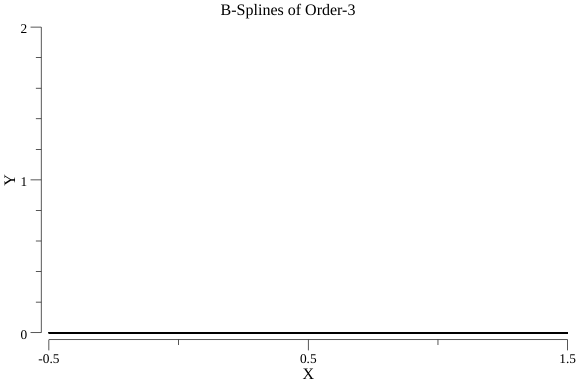
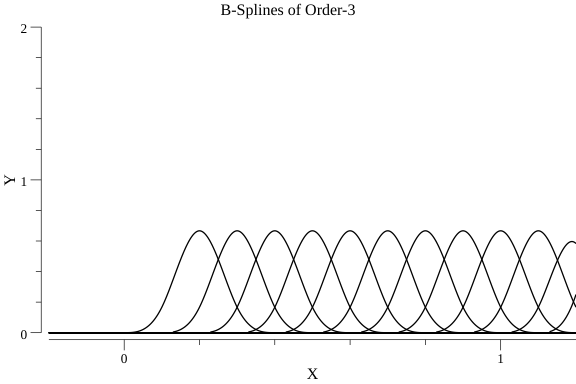
[Spline] Implement Unique B-Spline #2 : Add indexing, separate from knot data's slice indexing.

diff --git a/knot/knot.go b/knot/knot.go
@@ -14,12 +14,24 @@ import "fmt"
 // i.e. if we need y = spline(1.0), then the knots should be
 // Knot = {0, 0.1, 0.2, ... , 0.9, 1.0, 1.1}
 // since B-Splines are defined on [k_i, k_(i+1))
+// If padding is included, then we interpret knots as:
+// k_-p, k_(-p+1), ... , k_-1, k_0, k_1, ... , k_count, k_(count+1), ... , k_(count+p)
+// --------------------------  ^^^^^^^^^^^^^^^^^^^^^^^  ------------------------------
+//          PADDINGS                    KNOTS                     PADDINGS
 type Knot interface {
 	// Len
 	// Total length of the knots, including paddings
 	Len() int
+	// Padding
+	// How many paddings are on each end?
+	Padding() int
+	// Count
+	// Length of the knots without paddings
+	Count() int
 
+	// Will return value considering padding, i.e. if padding = 4, then At(0) = Knot[4]
 	At(idx int) float64
+	// Will return value considering padding, i.e. if padding = 4, then Index(0) = 0
 	Index(x float64) int
 	String() string
 
@@ -27,7 +39,10 @@ type Knot interface {
 	IsUnique() bool
 }
 
-type uniformKnot []float64
+type uniformKnot struct {
+	knots   []float64
+	padding int
+}
 
 func NewUniformKnot(start, end float64, count, paddings int) Knot {
 	if count <= 0 {
@@ -40,29 +55,36 @@ func NewUniformKnot(start, end float64, count, paddings int) Knot {
 	var startIdx = -paddings
 	var endIdx = count + paddings
 	for i := startIdx; i <= endIdx; i++ {
-		knots = append(knots, start+(end-start)*(float64(i)/float64(count)))
+		knots.knots = append(knots.knots, start+(end-start)*(float64(i)/float64(count)))
 	}
-	return knots
+	return &knots
 }
 
-// count + 1
-func (k uniformKnot) Len() int {
-	return len(k)
+func (k *uniformKnot) Len() int {
+	return len(k.knots)
 }
 
-func (k uniformKnot) IsSorted() bool {
-	return sort.Float64sAreSorted(k)
+func (k *uniformKnot) Padding() int {
+	return k.padding
 }
 
-func (k uniformKnot) IsUnique() bool {
+func (k *uniformKnot) Count() int {
+	return len(k.knots) - 2*k.padding
+}
+
+func (k *uniformKnot) IsSorted() bool {
+	return sort.Float64sAreSorted(k.knots)
+}
+
+func (k *uniformKnot) IsUnique() bool {
 	if !k.IsSorted() {
 		return false
 	}
 	if k.Len() == 0 {
 		return false
 	}
-	last := k[0]
-	for _, f := range k[1:] {
+	last := k.knots[0]
+	for _, f := range k.knots[1:] {
 		if last == f {
 			return false
 		}
@@ -71,46 +93,46 @@ func (k uniformKnot) IsUnique() bool {
 	return true
 }
 
-func (k uniformKnot) At(idx int) float64 {
-	if idx < 0 {
-		return k[0]
+func (k *uniformKnot) At(idx int) float64 {
+	if idx+k.Padding() < 0 {
+		return k.knots[0]
 	}
-	if idx >= k.Len() {
-		return k[k.Len()-1]
+	if idx >= k.Count()+k.Padding() {
+		return k.knots[k.Len()-1]
 	}
-	return k[idx]
+	return k.knots[idx+k.Padding()]
 }
 
-func (k uniformKnot) Index(x float64) int {
-	start, end := k[0], k[len(k)-1]
-	interval := float64(len(k)-1) / (end - start)
+func (k *uniformKnot) Index(x float64) int {
+	start, end := k.knots[0], k.knots[len(k.knots)-1]
+	interval := float64(len(k.knots)-1) / (end - start)
 	idx := int(x*interval + start)
 	if k.At(idx) <= x && x < k.At(idx+1) {
-		return idx
+		return idx - k.Padding()
 	}
-	if idx >= k.Len()-1 {
-		return k.Len() - 1
+	if idx >= k.Len()-1-k.Padding() {
+		return k.Len() - 1 - k.Padding()
 	}
 	if idx < 0 {
-		return 0
+		return k.Padding()
 	}
 	if x >= k.At(idx+1) {
 		for interval < x-k.At(idx) && idx > 0 {
 			idx--
 		}
-		return idx
+		return idx - k.Padding()
 	}
 
 	for interval < k.At(idx)-x {
 		idx++
 	}
-	return idx
+	return idx - k.Padding()
 }
 
-func (k uniformKnot) String() string {
+func (k *uniformKnot) String() string {
 	buf := strings.Builder{}
 	buf.WriteString("[")
-	for i, f := range k {
+	for i, f := range k.knots {
 		buf.WriteString(fmt.Sprintf("%f", f))
 		if i < k.Len()-1 {
 			buf.WriteString(fmt.Sprintf(", "))

diff --git a/bspline/uniformBspline.go b/bspline/uniformBspline.go
@@ -25,7 +25,7 @@ func NewBSplineSimple(order int, knot knot.Knot, coef []float64) *bSplineSimple 
 }
 
 func (b *bSplineSimple) At(x float64) float64 {
-	idx := b.knots.Index(x)
+	idx := b.knots.Index(x) + b.Order()
 	v := b.GetCoef(idx) * b.GetBSpline(idx)(x)
 	for m := 1; m <= b.order; m++ {
 		v += b.GetCoef(idx-m) * b.GetBSpline(idx-m)(x)
@@ -34,7 +34,12 @@ func (b *bSplineSimple) At(x float64) float64 {
 }
 
 func (b *bSplineSimple) AtIdx(idx int) float64 {
-	return b.bsplines[idx](b.Knots().At(idx))
+	x := b.Knots().At(idx)
+	v := b.GetCoef(idx) * b.GetBSpline(idx)(x)
+	for m := 1; m <= b.order; m++ {
+		v += b.GetCoef(idx-m) * b.GetBSpline(idx-m)(x)
+	}
+	return v
 }
 
 func (b *bSplineSimple) Knots() knot.Knot {
@@ -60,7 +65,19 @@ func (b *bSplineSimple) GetCoef(idx int) float64 {
 	return 0.0
 }
 
+// GetBSpline find cached B-Spline function from index of the knot
+func (b *bSplineSimple) SetBSpline(idx int, fcn bFunc) {
+	idx += b.order
+	if 0 <= idx && idx < len(b.coefs) {
+		b.bsplines[idx] = fcn
+	} else {
+		// TODO: Warn
+	}
+}
+
+// GetBSpline find cached B-Spline function from index of the knot
 func (b *bSplineSimple) GetBSpline(idx int) bFunc {
+	idx += b.order
 	if idx < 0 {
 		return b.bsplines[0]
 	}
@@ -113,7 +130,7 @@ func constructBSplines(order int, knots knot.Knot) []bFunc {
 	}
 	var splines []bFunc
 	// Order 0
-	for idx := 0; idx < knots.Len()+2*order; idx++ {
+	for idx := -order; idx < knots.Count()+order; idx++ {
 		k1, k2 := knots.At(idx), knots.At(idx+1)
 		var fcn bFunc
 		if k1 == k2 {
@@ -126,14 +143,14 @@ func constructBSplines(order int, knots knot.Knot) []bFunc {
 
 	// Order 1~ : Recursive
 	for m := 1; m <= order; m++ {
-		for idx := 0; idx < knots.Len()+2*order-m; idx++ {
+		for idx := -order; idx < knots.Count()+order-m; idx++ {
 			a1, a2 := knots.At(idx), knots.At(idx+m)
 			t1, t2 := knots.At(idx+1), knots.At(idx+m+1)
-			fa, ft := splines[idx], splines[idx+1]
+			fa, ft := splines[idx+order], splines[idx+1+order]
 			fcn := constructBsplinesRecursively(a1, a2, t1, t2, fa, ft)
-			splines[idx] = fcn
+			splines[idx+order] = fcn
 		}
 	}
-	splines = splines[:(knots.Len() + order)]
+	splines = splines[:(knots.Count() + order)]
 	return splines
 }

diff --git a/bspline/bspline_test.go b/bspline/bspline_test.go
@@ -11,8 +11,8 @@ import (
 )
 
 func TestSimpleBSpline(t *testing.T) {
-	knots := knot.NewUniformKnot(0, 1, 10, 4)
 	const order = 3
+	knots := knot.NewUniformKnot(0, 1, 10, order)
 
 	p, err := plot.New()
 	if err != nil {
@@ -22,19 +22,20 @@ func TestSimpleBSpline(t *testing.T) {
 	p.X.Label.Text = "X"
 	p.Y.Label.Text = "Y"
 
-	for i := 0; i < knots.Len(); i++ {
-		coef := make([]float64, knots.Len()+order)
+	for i := 0; i < knots.Count(); i++ {
+		coef := make([]float64, knots.Count()+order)
 		simpleSpline := NewBSplineSimple(order, knots, coef)
-		simpleSpline.SetCoef(i+4, 1.0)
-		fmt.Printf("B[%d]=%f\n", i, simpleSpline.At(knots.At(i+1)))
+		simpleSpline.SetCoef(i+order, 1.0)
+		x := knots.At(i + order)
+		fmt.Printf("B[%d](%f)=%f\n", i, x, simpleSpline.At(x))
 		f := plotter.NewFunction(simpleSpline.At)
 		f.Samples = 1000
 
 		p.Add(f)
 	}
 
-	p.X.Min = -0.5
-	p.X.Max = 1.5
+	p.X.Min = -0.2
+	p.X.Max = 1.2
 	p.Y.Min = 0
 	p.Y.Max = 2
 
